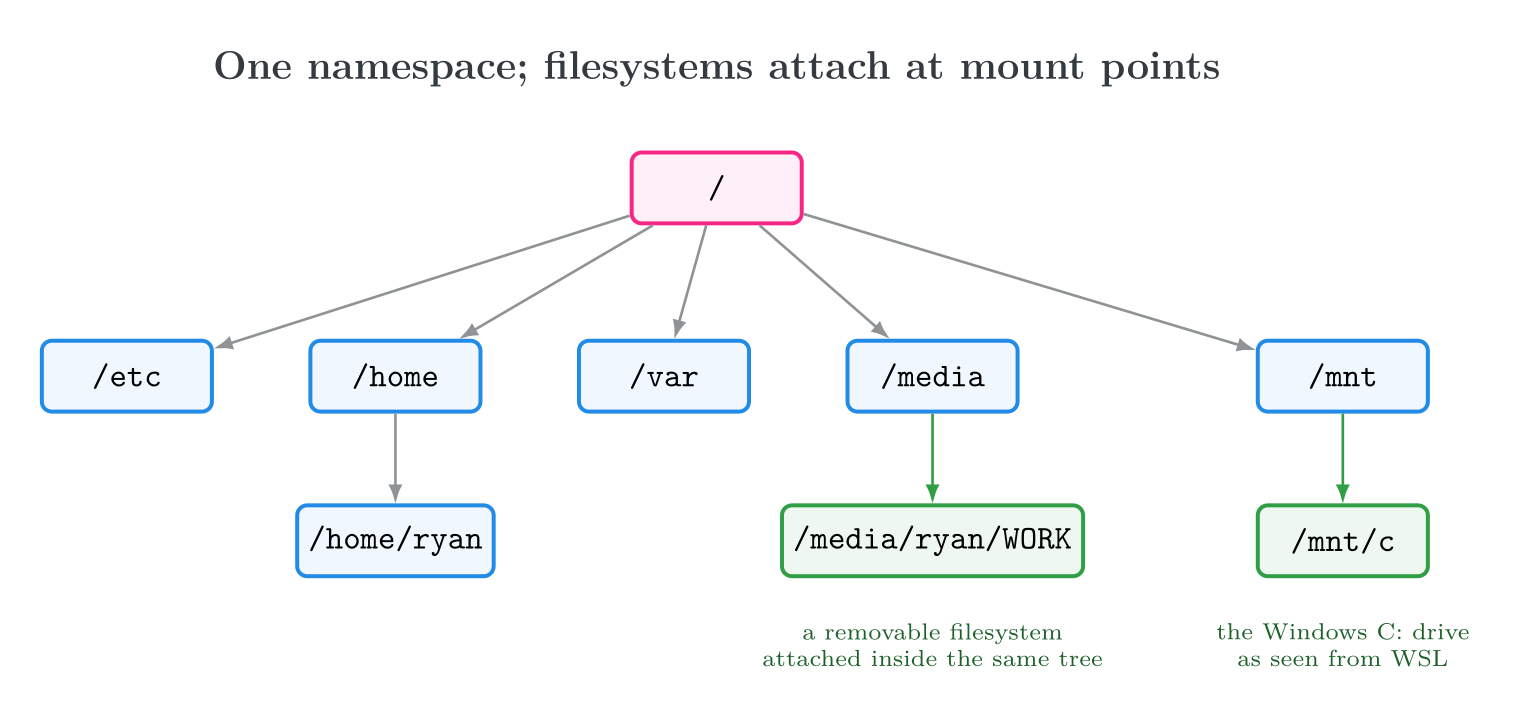
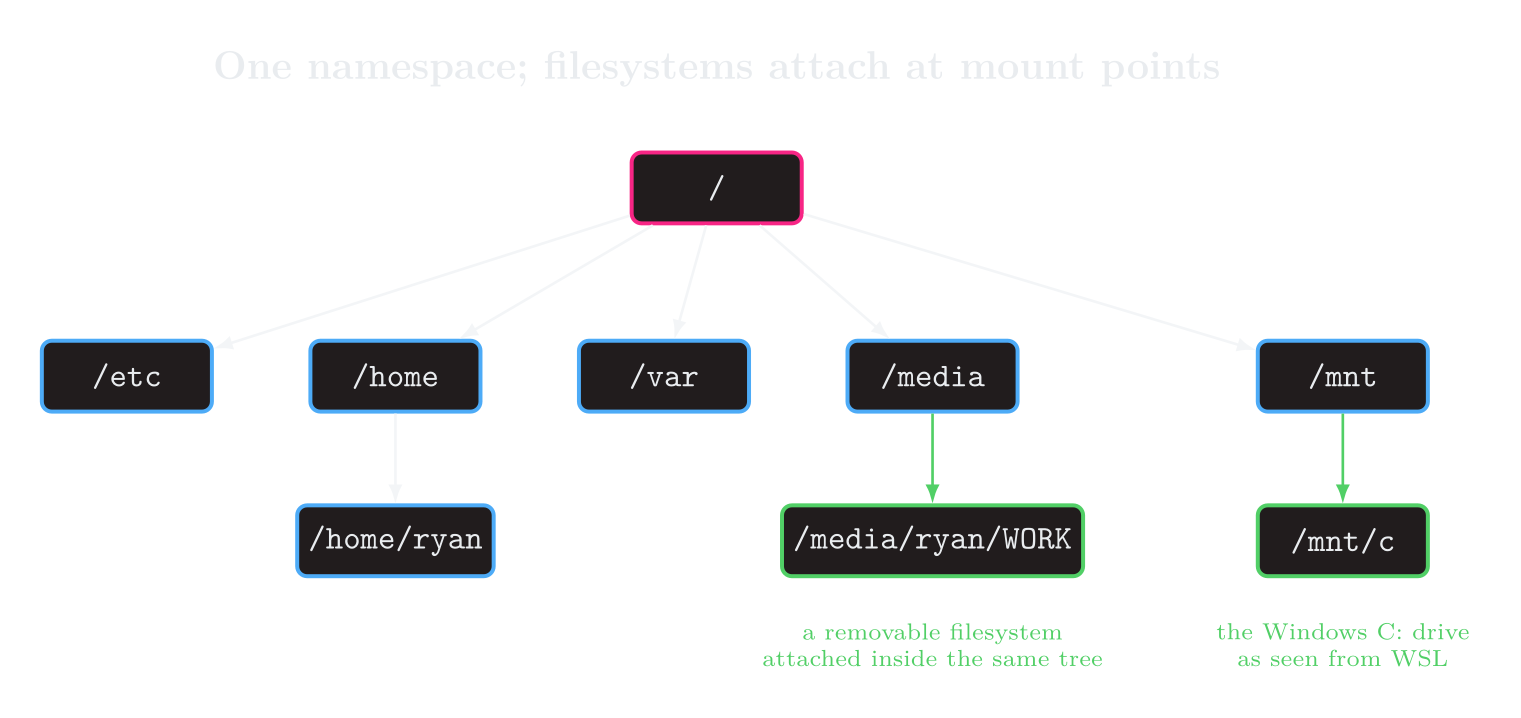
fix: author diagrams for dark backgrounds

diff --git a/assets/css/main.scss b/assets/css/main.scss
@@ -125,7 +125,6 @@
   background: transparent;
   border-radius: 0.75rem;
   display: block;
-  filter: invert(1) hue-rotate(180deg);
   width: 100%;
 }
 
@@ -154,7 +153,6 @@
 
 .fluid-gallery img {
   aspect-ratio: 20 / 9;
-  filter: none;
   object-fit: cover;
 }
 

diff --git a/assets/diagrams/columnar-pipeline/snapshot-flow.tex b/assets/diagrams/columnar-pipeline/snapshot-flow.tex
@@ -1,19 +1,19 @@
 \documentclass[tikz,border=12pt]{standalone}
 \usetikzlibrary{arrows.meta,positioning,fit}
-\definecolor{pink}{HTML}{F72585}\definecolor{blue}{HTML}{228BE6}\definecolor{green}{HTML}{2F9E44}
-\definecolor{amber}{HTML}{F08C00}\definecolor{ink}{HTML}{343A40}\definecolor{soft}{HTML}{F1F3F5}
+\definecolor{pink}{HTML}{F72585}\definecolor{blue}{HTML}{4DABF7}\definecolor{green}{HTML}{51CF66}
+\definecolor{amber}{HTML}{FCC419}\definecolor{ink}{HTML}{E9ECEF}\definecolor{panel}{HTML}{211C1D}
 \begin{document}
-\begin{tikzpicture}[box/.style={rounded corners=3pt,draw=blue,fill=blue!7,very thick,minimum width=2.6cm,minimum height=1.15cm,align=center},arrow/.style={-{Latex[length=2.8mm]},very thick,ink!65},label/.style={font=\small\bfseries,text=ink}]
+\begin{tikzpicture}[text=ink,box/.style={rounded corners=3pt,draw=blue,fill=panel,very thick,minimum width=2.6cm,minimum height=1.15cm,align=center},arrow/.style={-{Latex[length=2.8mm]},very thick,ink!65},label/.style={font=\small\bfseries,text=ink}]
  \node[box] (events) {typed events\\row-oriented writes};
  \node[box,right=1.1cm of events] (batch) {immutable\\Parquet batches};
- \node[box,draw=pink,fill=pink!7,right=1.1cm of batch] (snapshot) {snapshot manifest\\visible file set};
- \node[box,draw=amber,fill=amber!8,right=1.1cm of snapshot] (duck) {DuckDB\\projection + filter};
- \node[box,draw=green,fill=green!8,right=1.1cm of duck] (arrow) {Arrow batches\\typed columns};
+ \node[box,draw=pink,right=1.1cm of batch] (snapshot) {snapshot manifest\\visible file set};
+ \node[box,draw=amber,right=1.1cm of snapshot] (duck) {DuckDB\\projection + filter};
+ \node[box,draw=green,right=1.1cm of duck] (arrow) {Arrow batches\\typed columns};
  \draw[arrow] (events)--(batch); \draw[arrow] (batch)--(snapshot); \draw[arrow] (snapshot)--(duck); \draw[arrow] (duck)--(arrow);
  \node[label,above=.45cm of batch] {complete files only};
  \node[label,above=.45cm of snapshot,text=pink] {manifest = commit point};
- \node[box,draw=ink!45,fill=soft,below=1.35cm of batch] (old) {small files\\$A+B+C$};
- \node[box,draw=green,fill=green!8,below=1.35cm of snapshot] (compact) {compacted file\\$D$};
+ \node[box,draw=ink!45,below=1.35cm of batch] (old) {small files\\$A+B+C$};
+ \node[box,draw=green,below=1.35cm of snapshot] (compact) {compacted file\\$D$};
  \draw[arrow] (old)--(compact);
  \draw[-{Latex[length=2.8mm]},very thick,pink] (compact)--node[right,font=\small,align=left]{atomic manifest change\\$\{A,B,C\}\to\{D\}$}(snapshot);
 \end{tikzpicture}

diff --git a/assets/diagrams/cedar/conformance.tex b/assets/diagrams/cedar/conformance.tex
@@ -1,14 +1,14 @@
 \documentclass[tikz,border=12pt]{standalone}
 \usetikzlibrary{arrows.meta,positioning}
-\definecolor{pink}{HTML}{F72585}\definecolor{blue}{HTML}{228BE6}\definecolor{green}{HTML}{2F9E44}\definecolor{violet}{HTML}{7950F2}\definecolor{ink}{HTML}{343A40}
+\definecolor{pink}{HTML}{F72585}\definecolor{blue}{HTML}{4DABF7}\definecolor{green}{HTML}{51CF66}\definecolor{violet}{HTML}{B197FC}\definecolor{ink}{HTML}{E9ECEF}\definecolor{panel}{HTML}{211C1D}
 \begin{document}
-\begin{tikzpicture}[impl/.style={rounded corners=4pt,very thick,minimum width=2.8cm,minimum height=1.05cm,align=center},arrow/.style={-{Latex[length=2.8mm]},very thick,ink!60}]
- \node[rounded corners=5pt,draw=pink,fill=pink!8,very thick,minimum width=4.3cm,minimum height=1.25cm,align=center,font=\bfseries] (corpus) {Cedar conformance corpus\\shared behavioral cases};
- \node[impl,draw=ink,fill=ink!6,below left=1.65cm and 4cm of corpus] (rust) {Rust reference\\implementation};
- \node[impl,draw=blue,fill=blue!8,below=1.65cm of corpus] (go) {cedar-go\\idiomatic Go API};
- \node[impl,draw=violet,fill=violet!8,below right=1.65cm and 4cm of corpus] (net) {cedar-dotnet\\idiomatic C\# API};
+\begin{tikzpicture}[text=ink,impl/.style={rounded corners=4pt,fill=panel,very thick,minimum width=2.8cm,minimum height=1.05cm,align=center},arrow/.style={-{Latex[length=2.8mm]},very thick,ink!60}]
+ \node[rounded corners=5pt,draw=pink,fill=panel,very thick,minimum width=4.3cm,minimum height=1.25cm,align=center,font=\bfseries] (corpus) {Cedar conformance corpus\\shared behavioral cases};
+ \node[impl,draw=ink,below left=1.65cm and 4cm of corpus] (rust) {Rust reference\\implementation};
+ \node[impl,draw=blue,below=1.65cm of corpus] (go) {cedar-go\\idiomatic Go API};
+ \node[impl,draw=violet,below right=1.65cm and 4cm of corpus] (net) {cedar-dotnet\\idiomatic C\# API};
  \draw[arrow] (corpus)--(rust); \draw[arrow] (corpus)--(go); \draw[arrow] (corpus)--(net);
- \node[font=\small,align=center,text=green!60!black,below=.65cm of go] {syntax and public APIs may differ\\authorization semantics must agree};
+ \node[font=\small,align=center,text=green,below=.65cm of go] {syntax and public APIs may differ\\authorization semantics must agree};
  \node[font=\bfseries\large,text=ink,above=.55cm of corpus] {Behavior is the portable contract};
 \end{tikzpicture}
 \end{document}

diff --git a/assets/diagrams/mixology/lesson-map.tex b/assets/diagrams/mixology/lesson-map.tex
@@ -1,16 +1,16 @@
 \documentclass[tikz,border=12pt]{standalone}
 \usetikzlibrary{arrows.meta,positioning}
-\definecolor{pink}{HTML}{F72585}\definecolor{blue}{HTML}{228BE6}\definecolor{green}{HTML}{2F9E44}\definecolor{violet}{HTML}{7950F2}\definecolor{ink}{HTML}{343A40}
+\definecolor{pink}{HTML}{F72585}\definecolor{blue}{HTML}{4DABF7}\definecolor{green}{HTML}{51CF66}\definecolor{violet}{HTML}{B197FC}\definecolor{ink}{HTML}{E9ECEF}\definecolor{panel}{HTML}{211C1D}
 \begin{document}
-\begin{tikzpicture}[lesson/.style={rounded corners=4pt,draw=blue,fill=blue!7,very thick,minimum width=2.35cm,minimum height=1.05cm,align=center,font=\small},arrow/.style={-{Latex[length=2.4mm]},thick,pink}]
+\begin{tikzpicture}[text=ink,lesson/.style={rounded corners=4pt,draw=blue,fill=panel,very thick,minimum width=2.35cm,minimum height=1.05cm,align=center,font=\small},arrow/.style={-{Latex[length=2.4mm]},thick,pink}]
  \node[lesson] (l1) {1\\boundaries}; \node[lesson,right=.45cm of l1] (l2) {2\\types};
  \node[lesson,right=.45cm of l2] (l3) {3\\one pipeline}; \node[lesson,right=.45cm of l3] (l4) {4\\events};
  \node[lesson,right=.45cm of l4] (l5) {5\\generation}; \node[lesson,right=.45cm of l5] (l6) {6\\error contracts};
- \node[lesson,draw=violet,fill=violet!7,below=1.2cm of l6] (l7) {7\\authorization};
- \node[lesson,draw=violet,fill=violet!7,left=.45cm of l7] (l8) {8\\surfaces};
- \node[lesson,draw=green,fill=green!7,left=.45cm of l8] (l9) {9\\owned seams};
- \node[lesson,draw=green,fill=green!7,left=.45cm of l9] (l10) {10\\system tests};
- \node[lesson,draw=green,fill=green!7,left=.45cm of l10] (l11) {11\\stop in time};
+ \node[lesson,draw=violet,below=1.2cm of l6] (l7) {7\\authorization};
+ \node[lesson,draw=violet,left=.45cm of l7] (l8) {8\\surfaces};
+ \node[lesson,draw=green,left=.45cm of l8] (l9) {9\\owned seams};
+ \node[lesson,draw=green,left=.45cm of l9] (l10) {10\\system tests};
+ \node[lesson,draw=green,left=.45cm of l10] (l11) {11\\stop in time};
  \draw[arrow] (l1)--(l2); \draw[arrow] (l2)--(l3); \draw[arrow] (l3)--(l4); \draw[arrow] (l4)--(l5); \draw[arrow] (l5)--(l6);
  \draw[arrow] (l6)--(l7); \draw[arrow] (l7)--(l8); \draw[arrow] (l8)--(l9); \draw[arrow] (l9)--(l10); \draw[arrow] (l10)--(l11);
  \node[font=\bfseries\large,text=ink,above=.55cm of l3] {From executable constraints to production-shaped evidence};

diff --git a/assets/diagrams/arch-lint/enforced-boundary.tex b/assets/diagrams/arch-lint/enforced-boundary.tex
@@ -1,14 +1,14 @@
 \documentclass[tikz,border=12pt]{standalone}
 \usetikzlibrary{arrows.meta,positioning}
-\definecolor{green}{HTML}{2F9E44}\definecolor{red}{HTML}{E03131}\definecolor{blue}{HTML}{228BE6}\definecolor{ink}{HTML}{343A40}
+\definecolor{green}{HTML}{51CF66}\definecolor{red}{HTML}{FF6B6B}\definecolor{blue}{HTML}{4DABF7}\definecolor{ink}{HTML}{E9ECEF}\definecolor{panel}{HTML}{211C1D}
 \begin{document}
-\begin{tikzpicture}[pkg/.style={rounded corners=3pt,draw=blue,fill=blue!7,very thick,minimum width=2.4cm,minimum height=.85cm,align=center},ok/.style={-{Latex[length=2.8mm]},very thick,green},bad/.style={-{Latex[length=2.8mm]},very thick,red,dashed}]
+\begin{tikzpicture}[text=ink,pkg/.style={rounded corners=3pt,draw=blue,fill=panel,very thick,minimum width=2.4cm,minimum height=.85cm,align=center},ok/.style={-{Latex[length=2.8mm]},very thick,green},bad/.style={-{Latex[length=2.8mm]},very thick,red,dashed}]
  \node[pkg] (as) {orders\\surface/tui}; \node[pkg,right=2.1cm of as] (am) {orders\\models}; \node[pkg,right=2.1cm of am] (ai) {orders\\internal/dao};
  \node[pkg,below=1.65cm of as] (bs) {menus\\surface/gui}; \node[pkg,right=2.1cm of bs] (bm) {menus\\queries}; \node[pkg,right=2.1cm of bm] (bi) {menus\\internal/commands};
  \draw[ok] (as)--node[above,font=\small]{public contract}(am); \draw[ok] (bs)--node[above,font=\small]{public contract}(bm);
  \draw[bad] (as) to[bend left=34] node[above,sloped,font=\small,text=red]{cross-domain private import} (bi);
  \draw[bad] (bs) to[bend right=34] node[below,sloped,font=\small,text=red]{wrong surface + private import} (ai);
- \node[draw=red,very thick,rounded corners=3pt,fill=red!8,below=1.1cm of bm,minimum width=5.1cm,minimum height=.8cm,align=center,font=\bfseries] {go tool arch-lint: build fails};
+ \node[draw=red,very thick,rounded corners=3pt,fill=panel,below=1.1cm of bm,minimum width=5.1cm,minimum height=.8cm,align=center,font=\bfseries] {go tool arch-lint: build fails};
  \node[font=\bfseries\large,text=ink] at (5.1,1.45) {The repository turns boundary arrows into executable rules};
 \end{tikzpicture}
 \end{document}

diff --git a/assets/diagrams/linear-algebra/dimensions.tex b/assets/diagrams/linear-algebra/dimensions.tex
@@ -1,21 +1,21 @@
 \documentclass[tikz,border=12pt]{standalone}
 \usetikzlibrary{arrows.meta,positioning}
-\definecolor{pink}{HTML}{F72585}\definecolor{blue}{HTML}{228BE6}\definecolor{green}{HTML}{2F9E44}
-\definecolor{red}{HTML}{E03131}\definecolor{ink}{HTML}{343A40}\definecolor{soft}{HTML}{F1F3F5}
+\definecolor{pink}{HTML}{F72585}\definecolor{blue}{HTML}{4DABF7}\definecolor{green}{HTML}{51CF66}
+\definecolor{red}{HTML}{FF6B6B}\definecolor{ink}{HTML}{E9ECEF}\definecolor{panel}{HTML}{211C1D}
 \begin{document}
-\begin{tikzpicture}[matrix/.style={draw=blue,fill=blue!8,very thick,minimum width=2.3cm,minimum height=1.55cm,align=center,font=\Large},arrow/.style={-{Latex[length=3mm]},very thick}]
+\begin{tikzpicture}[text=ink,matrix/.style={draw=blue,fill=panel,very thick,minimum width=2.3cm,minimum height=1.55cm,align=center,font=\Large},arrow/.style={-{Latex[length=3mm]},very thick}]
  \node[font=\bfseries\large,text=ink] at (2.9,2.15) {The shared inner dimension is the proof};
  \node[matrix] (a) at (0,0) {$A$\\$m\times\color{pink}{n}$};
  \node[font=\Huge] at (1.55,0) {$\cdot$};
  \node[matrix] (b) at (3.1,0) {$B$\\$\color{pink}{n}\times q$};
  \draw[arrow,green] (4.55,0)--(5.65,0);
- \node[matrix,draw=green,fill=green!8] at (7.1,0) {$AB$\\$m\times q$};
- \node[font=\small,text=green!60!black] at (2.9,-1.25) {the compiler unifies the two occurrences of $n$};
+ \node[matrix,draw=green] at (7.1,0) {$AB$\\$m\times q$};
+ \node[font=\small,text=green] at (2.9,-1.25) {the compiler unifies the two occurrences of $n$};
  \begin{scope}[xshift=9.7cm]
   \node[font=\bfseries\large,text=ink] at (2.2,2.15) {A mismatch has no valid function call};
   \node[matrix] at (0,0) {$A$\\$m\times\color{pink}{n}$};
   \node[font=\Huge] at (1.55,0) {$\cdot$};
-  \node[matrix,draw=red,fill=red!7] at (3.1,0) {$B$\\$\color{red}{p}\times q$};
+  \node[matrix,draw=red] at (3.1,0) {$B$\\$\color{red}{p}\times q$};
   \node[font=\Huge,text=red] at (5.15,0) {$\times$};
   \node[font=\small,text=red] at (2.2,-1.25) {$n\neq p$: the program fails to compile};
  \end{scope}

diff --git a/assets/diagrams/degradation/degradation-vs-promotion.tex b/assets/diagrams/degradation/degradation-vs-promotion.tex
@@ -1,15 +1,15 @@
 \documentclass[tikz,border=12pt]{standalone}
 \usetikzlibrary{arrows.meta,positioning}
-\definecolor{pink}{HTML}{F72585}\definecolor{green}{HTML}{2F9E44}\definecolor{amber}{HTML}{F08C00}
-\definecolor{red}{HTML}{E03131}\definecolor{blue}{HTML}{228BE6}\definecolor{ink}{HTML}{343A40}
+\definecolor{pink}{HTML}{F72585}\definecolor{green}{HTML}{51CF66}\definecolor{amber}{HTML}{FCC419}
+\definecolor{red}{HTML}{FF6B6B}\definecolor{blue}{HTML}{4DABF7}\definecolor{ink}{HTML}{E9ECEF}\definecolor{panel}{HTML}{211C1D}
 \begin{document}
-\begin{tikzpicture}[state/.style={rounded corners=4pt,draw=blue,fill=blue!7,very thick,minimum width=3.25cm,minimum height=1.1cm,align=center},arrow/.style={-{Latex[length=3mm]},very thick},note/.style={font=\small,align=center,text=ink}]
- \node[state,draw=green,fill=green!8] (published) {Published\\serviceable};
- \node[state,draw=amber,fill=amber!9,right=2.4cm of published] (degraded) {Published\\degraded};
+\begin{tikzpicture}[text=ink,state/.style={rounded corners=4pt,draw=blue,fill=panel,very thick,minimum width=3.25cm,minimum height=1.1cm,align=center},arrow/.style={-{Latex[length=3mm]},very thick},note/.style={font=\small,align=center,text=ink}]
+ \node[state,draw=green] (published) {Published\\serviceable};
+ \node[state,draw=amber,right=2.4cm of published] (degraded) {Published\\degraded};
  \draw[arrow,amber] (published)--node[above,note]{ingredient retired\\without replacement}(degraded);
  \node[note,right=.45cm of degraded] {membership and history\\remain visible};
  \node[state,below=2.25cm of published] (draft) {Draft\\serviceable};
- \node[state,draw=red,fill=red!7,right=2.4cm of draft] (blocked) {Draft\\known blocker};
+ \node[state,draw=red,right=2.4cm of draft] (blocked) {Draft\\known blocker};
  \draw[arrow,red] (draft)--node[above,note]{same loss}(blocked);
  \draw[arrow,green] (draft.west)++(-.2,0)--++(-1.3,0)--++(0,3.35)--node[left,note]{publish when\\ready}(published.west);
  \draw[arrow,red,dashed] (blocked)--node[left,note]{promotion\\rejected}(degraded);

diff --git a/assets/diagrams/linux/filesystem-tree.tex b/assets/diagrams/linux/filesystem-tree.tex
@@ -1,9 +1,9 @@
 \documentclass[tikz,border=12pt]{standalone}
 \usetikzlibrary{arrows.meta,positioning}
-\definecolor{pink}{HTML}{F72585}\definecolor{blue}{HTML}{228BE6}\definecolor{green}{HTML}{2F9E44}\definecolor{ink}{HTML}{343A40}
+\definecolor{pink}{HTML}{F72585}\definecolor{blue}{HTML}{4DABF7}\definecolor{green}{HTML}{51CF66}\definecolor{ink}{HTML}{E9ECEF}\definecolor{panel}{HTML}{211C1D}
 \begin{document}
-\begin{tikzpicture}[dir/.style={rounded corners=3pt,draw=blue,fill=blue!7,very thick,minimum width=1.8cm,minimum height=.75cm,font=\ttfamily},mount/.style={dir,draw=green,fill=green!8},edge/.style={-{Latex[length=2mm]},ink!55,thick}]
- \node[dir,draw=pink,fill=pink!7] (root) {/};
+\begin{tikzpicture}[text=ink,dir/.style={rounded corners=3pt,draw=blue,fill=panel,very thick,minimum width=1.8cm,minimum height=.75cm,font=\ttfamily},mount/.style={dir,draw=green},edge/.style={-{Latex[length=2mm]},ink!55,thick}]
+ \node[dir,draw=pink] (root) {/};
  \node[dir,below left=1.2cm and 4.4cm of root] (etc) {/etc};
  \node[dir,right=1cm of etc] (home) {/home};
  \node[dir,right=1cm of home] (var) {/var};
@@ -13,8 +13,8 @@
  \node[dir,below=.95cm of home] (ryan) {/home/ryan}; \draw[edge] (home)--(ryan);
  \node[mount,below=.95cm of media] (usb) {/media/ryan/WORK}; \draw[edge,green] (media)--(usb);
  \node[mount,below=.95cm of mnt] (c) {/mnt/c}; \draw[edge,green] (mnt)--(c);
- \node[align=center,font=\scriptsize,text=green!60!black,below=.35cm of usb] {a removable filesystem\\attached inside the same tree};
- \node[align=center,font=\scriptsize,text=green!60!black,below=.35cm of c] {the Windows C: drive\\as seen from WSL};
+ \node[align=center,font=\scriptsize,text=green,below=.35cm of usb] {a removable filesystem\\attached inside the same tree};
+ \node[align=center,font=\scriptsize,text=green,below=.35cm of c] {the Windows C: drive\\as seen from WSL};
  \node[font=\bfseries\large,text=ink,above=.55cm of root] {One namespace; filesystems attach at mount points};
 \end{tikzpicture}
 \end{document}

diff --git a/assets/diagrams/actions/action-states.tex b/assets/diagrams/actions/action-states.tex
@@ -1,10 +1,10 @@
 \documentclass[tikz,border=12pt]{standalone}
 \usetikzlibrary{arrows.meta,positioning}
-\definecolor{pink}{HTML}{F72585}\definecolor{green}{HTML}{2F9E44}\definecolor{gray}{HTML}{868E96}\definecolor{ink}{HTML}{343A40}
+\definecolor{pink}{HTML}{F72585}\definecolor{green}{HTML}{51CF66}\definecolor{gray}{HTML}{ADB5BD}\definecolor{ink}{HTML}{E9ECEF}\definecolor{panel}{HTML}{211C1D}
 \begin{document}
-\begin{tikzpicture}[panel/.style={rounded corners=5pt,draw=ink!25,fill=ink!3,minimum width=4.1cm,minimum height=2.8cm,align=center},button/.style={rounded corners=3pt,minimum width=2.5cm,minimum height=.75cm,font=\bfseries}]
+\begin{tikzpicture}[text=ink,panel/.style={rounded corners=5pt,draw=ink!35,fill=panel,minimum width=4.1cm,minimum height=2.8cm,align=center},button/.style={rounded corners=3pt,minimum width=2.5cm,minimum height=.75cm,font=\bfseries}]
  \node[panel] (hidden) at (0,0) {\textbf{Permission denied}\\[.8cm]\textcolor{gray}{no control or shortcut}\\[.25cm]\small Visible = false};
- \node[panel,right=.7cm of hidden] (disabled) {\textbf{Authorized; prerequisite unmet}\\[.35cm]\tikz\node[button,draw=gray,fill=gray!12,text=gray]{Publish};\\[.2cm]\small ``Add at least one drink''};
+ \node[panel,right=.7cm of hidden] (disabled) {\textbf{Authorized; prerequisite unmet}\\[.35cm]\tikz\node[button,draw=gray,fill=panel,text=gray]{Publish};\\[.2cm]\small ``Add at least one drink''};
  \node[panel,right=.7cm of disabled] (enabled) {\textbf{Authorized and ready}\\[.35cm]\tikz\node[button,draw=pink,fill=pink,text=white]{Publish};\\[.2cm]\small command rechecks on execution};
  \draw[-{Latex[length=2.7mm]},very thick,green] (hidden.south)++(0,-.5)--node[below,font=\small,text=ink]{permission succeeds}(disabled.south);
  \draw[-{Latex[length=2.7mm]},very thick,green] (disabled.south)++(0,-.5)--node[below,font=\small,text=ink]{conditions succeed}(enabled.south);

diff --git a/assets/diagrams/illegal-states/state-space.tex b/assets/diagrams/illegal-states/state-space.tex
@@ -1,9 +1,9 @@
 \documentclass[tikz,border=12pt]{standalone}
 \usetikzlibrary{arrows.meta,positioning}
-\definecolor{pink}{HTML}{F72585}\definecolor{green}{HTML}{2F9E44}\definecolor{red}{HTML}{E03131}
-\definecolor{blue}{HTML}{228BE6}\definecolor{ink}{HTML}{343A40}\definecolor{soft}{HTML}{F1F3F5}
+\definecolor{pink}{HTML}{F72585}\definecolor{green}{HTML}{51CF66}\definecolor{red}{HTML}{FF6B6B}
+\definecolor{blue}{HTML}{4DABF7}\definecolor{ink}{HTML}{E9ECEF}\definecolor{panel}{HTML}{211C1D}
 \begin{document}
-\begin{tikzpicture}[box/.style={rounded corners=3pt,draw=ink!35,fill=soft,minimum width=3cm,minimum height=.9cm,align=center},good/.style={box,draw=green,fill=green!9},bad/.style={box,draw=red,fill=red!7,text=ink!65},arrow/.style={-{Latex[length=3mm]},very thick,pink}]
+\begin{tikzpicture}[text=ink,box/.style={rounded corners=3pt,draw=ink!35,fill=panel,minimum width=3cm,minimum height=.9cm,align=center},good/.style={box,draw=green},bad/.style={box,draw=red,text=ink!75},arrow/.style={-{Latex[length=3mm]},very thick,pink}]
  \node[font=\bfseries\large,text=ink] at (1.6,3) {Independent options create a larger state space};
  \node[good] at (0,1.65) {draft\\no publication};
  \node[bad] at (3.25,1.65) {draft\\published time};
@@ -15,7 +15,7 @@
   \node[font=\bfseries\large,text=ink] at (1.6,3) {A sum type contains only meaningful states};
   \node[good,minimum width=4.2cm] at (1.6,1.65) {Draft};
   \node[good,minimum width=4.2cm] at (1.6,.35) {Published of PublishedAt};
-  \node[font=\small,text=green!60!black] at (1.6,-.55) {state-specific data travels with its case};
+  \node[font=\small,text=green] at (1.6,-.55) {state-specific data travels with its case};
  \end{scope}
 \end{tikzpicture}
 \end{document}

diff --git a/assets/diagrams/octonions/fano-plane.tex b/assets/diagrams/octonions/fano-plane.tex
@@ -1,13 +1,13 @@
 \documentclass[tikz,border=12pt]{standalone}
 \usetikzlibrary{calc}
-\definecolor{pink}{HTML}{F72585}\definecolor{blue}{HTML}{228BE6}
-\definecolor{violet}{HTML}{7950F2}\definecolor{ink}{HTML}{343A40}\definecolor{soft}{HTML}{F8F9FA}
+\definecolor{pink}{HTML}{F72585}\definecolor{blue}{HTML}{4DABF7}
+\definecolor{violet}{HTML}{B197FC}\definecolor{ink}{HTML}{E9ECEF}\definecolor{panel}{HTML}{211C1D}
 \begin{document}
-\begin{tikzpicture}[point/.style={circle,fill=pink,text=white,minimum size=9mm,font=\bfseries},line/.style={ink!75,line width=1.1pt}]
+\begin{tikzpicture}[text=ink,point/.style={circle,fill=pink,text=white,minimum size=9mm,font=\bfseries},line/.style={ink!75,line width=1.1pt}]
  \coordinate (p4) at (0,3.8); \coordinate (p5) at (-3.3,-2); \coordinate (p2) at (3.3,-2);
  \coordinate (p1) at ($(p4)!.5!(p5)$); \coordinate (p6) at ($(p4)!.5!(p2)$);
  \coordinate (p7) at ($(p5)!.5!(p2)$); \coordinate (p3) at (0,-.07);
- \fill[soft,rounded corners=8pt] (-4.15,-2.75) rectangle (7.1,4.55);
+ \fill[panel,rounded corners=8pt] (-4.15,-2.75) rectangle (7.1,4.55);
  \draw[line] (p4)--(p5)--(p2)--cycle;
  \draw[line] (p1)--(p2); \draw[line] (p4)--(p7); \draw[line] (p5)--(p6);
  \draw[line] (0,-.07) circle (1.93cm);

diff --git a/assets/diagrams/riblt/peeling.tex b/assets/diagrams/riblt/peeling.tex
@@ -2,13 +2,13 @@
 \usepackage{amsmath}
 \usetikzlibrary{arrows.meta,positioning}
 \definecolor{pink}{HTML}{F72585}\definecolor{blue}{HTML}{4DABF7}
-\definecolor{green}{HTML}{51CF66}\definecolor{ink}{HTML}{343A40}\definecolor{soft}{HTML}{F1F3F5}
+\definecolor{green}{HTML}{51CF66}\definecolor{ink}{HTML}{E9ECEF}\definecolor{panel}{HTML}{211C1D}
 \begin{document}
-\begin{tikzpicture}[
- symbol/.style={circle,draw=blue,fill=white,very thick,minimum size=9mm,font=\bfseries},
- cell/.style={rounded corners=3pt,draw=ink!45,fill=soft,minimum width=2.35cm,minimum height=1cm,align=center,font=\small},
- pure/.style={cell,draw=pink,fill=pink!9,very thick},
- solved/.style={cell,draw=green!70!black,fill=green!10,very thick},
+\begin{tikzpicture}[text=ink,
+ symbol/.style={circle,draw=blue,fill=panel,very thick,minimum size=9mm,font=\bfseries},
+ cell/.style={rounded corners=3pt,draw=ink!45,fill=panel,minimum width=2.35cm,minimum height=1cm,align=center,font=\small},
+ pure/.style={cell,draw=pink,very thick},
+ solved/.style={cell,draw=green,very thick},
  edge/.style={ink!55,line width=.7pt},peel/.style={-{Latex[length=2.6mm]},pink,very thick},
  title/.style={font=\bfseries\large,text=ink}]
  \node[title] at (0,2.35) {1. Find a pure cell};
